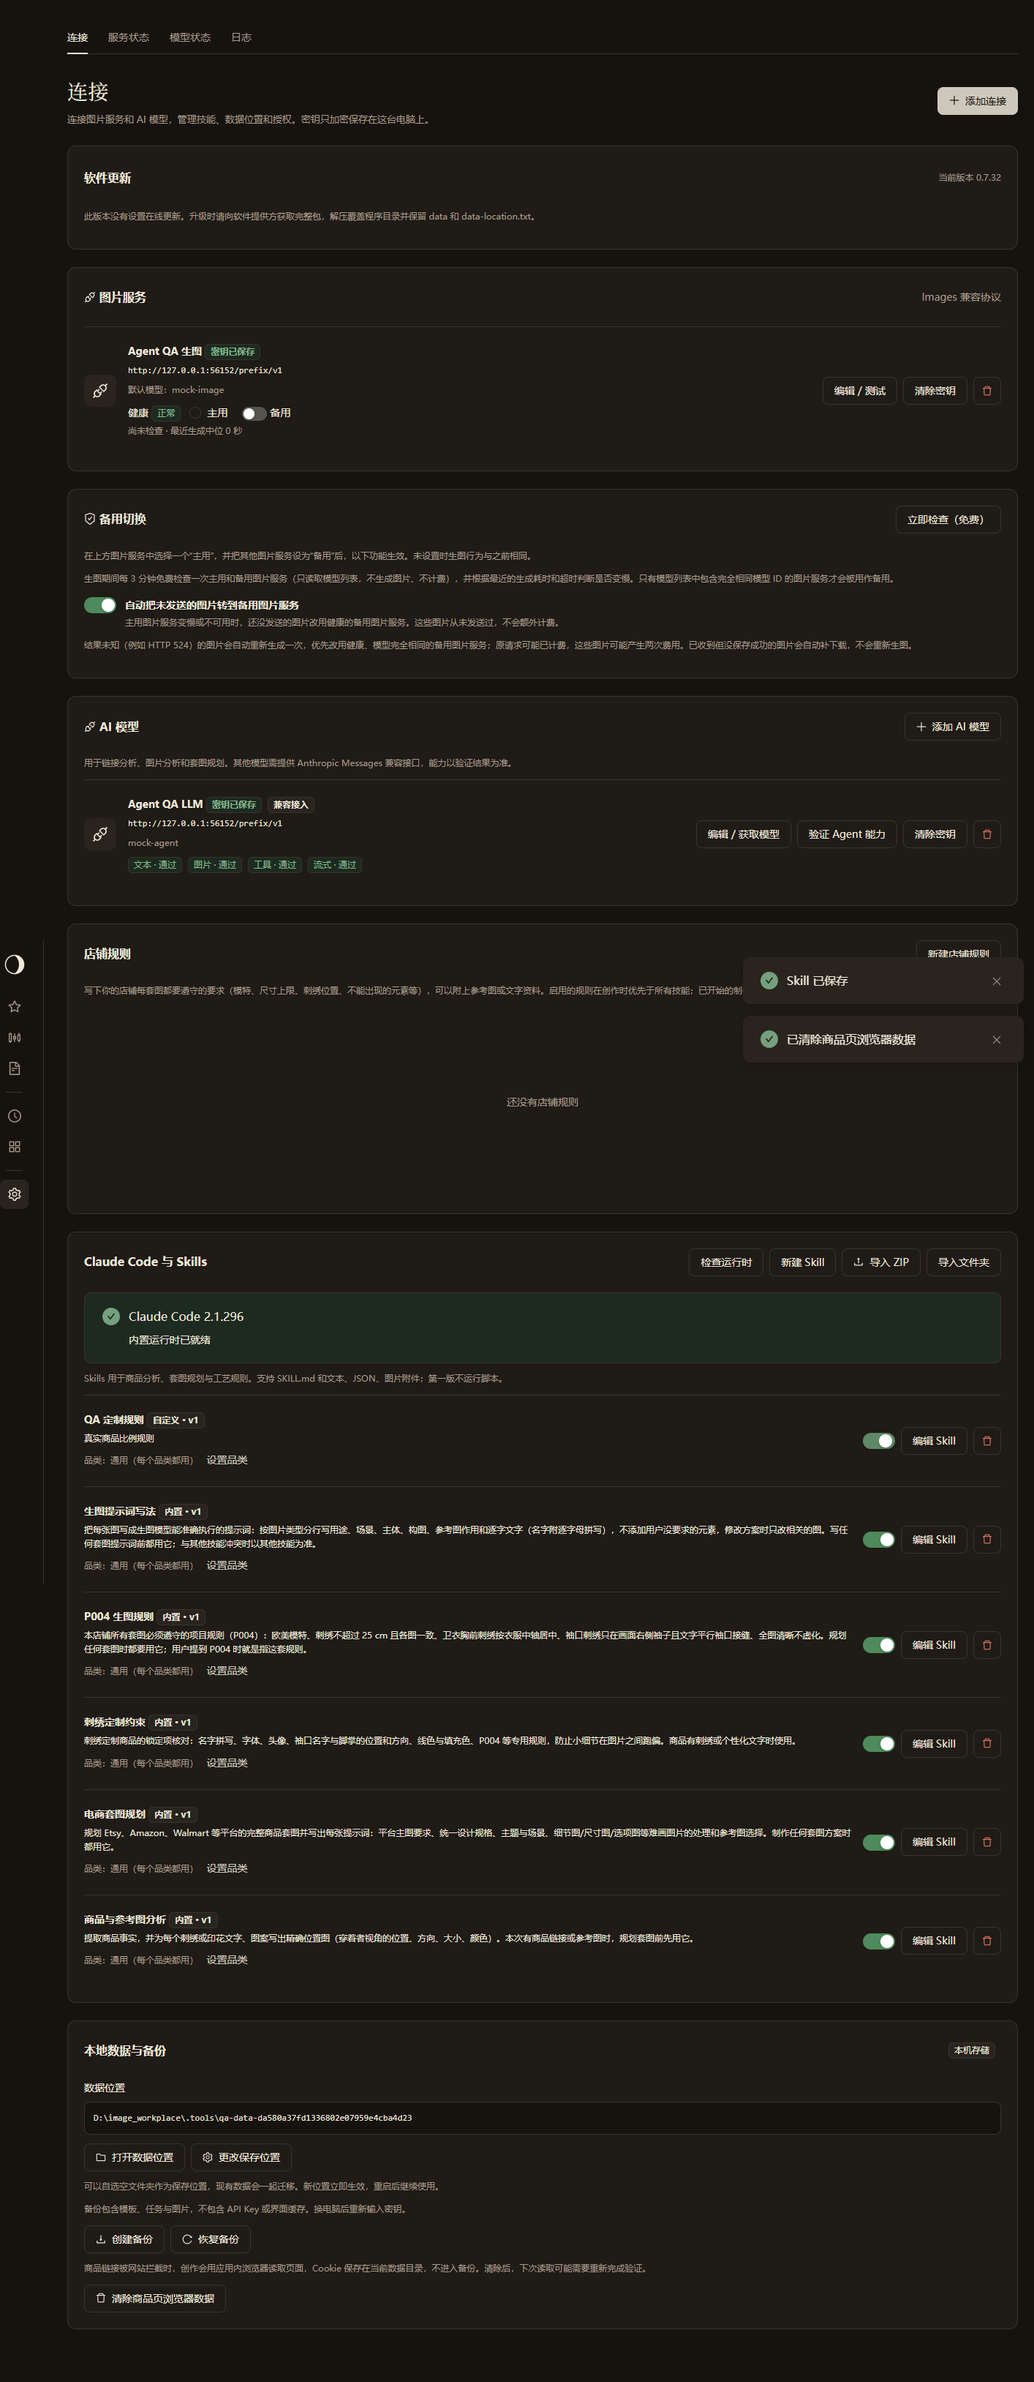
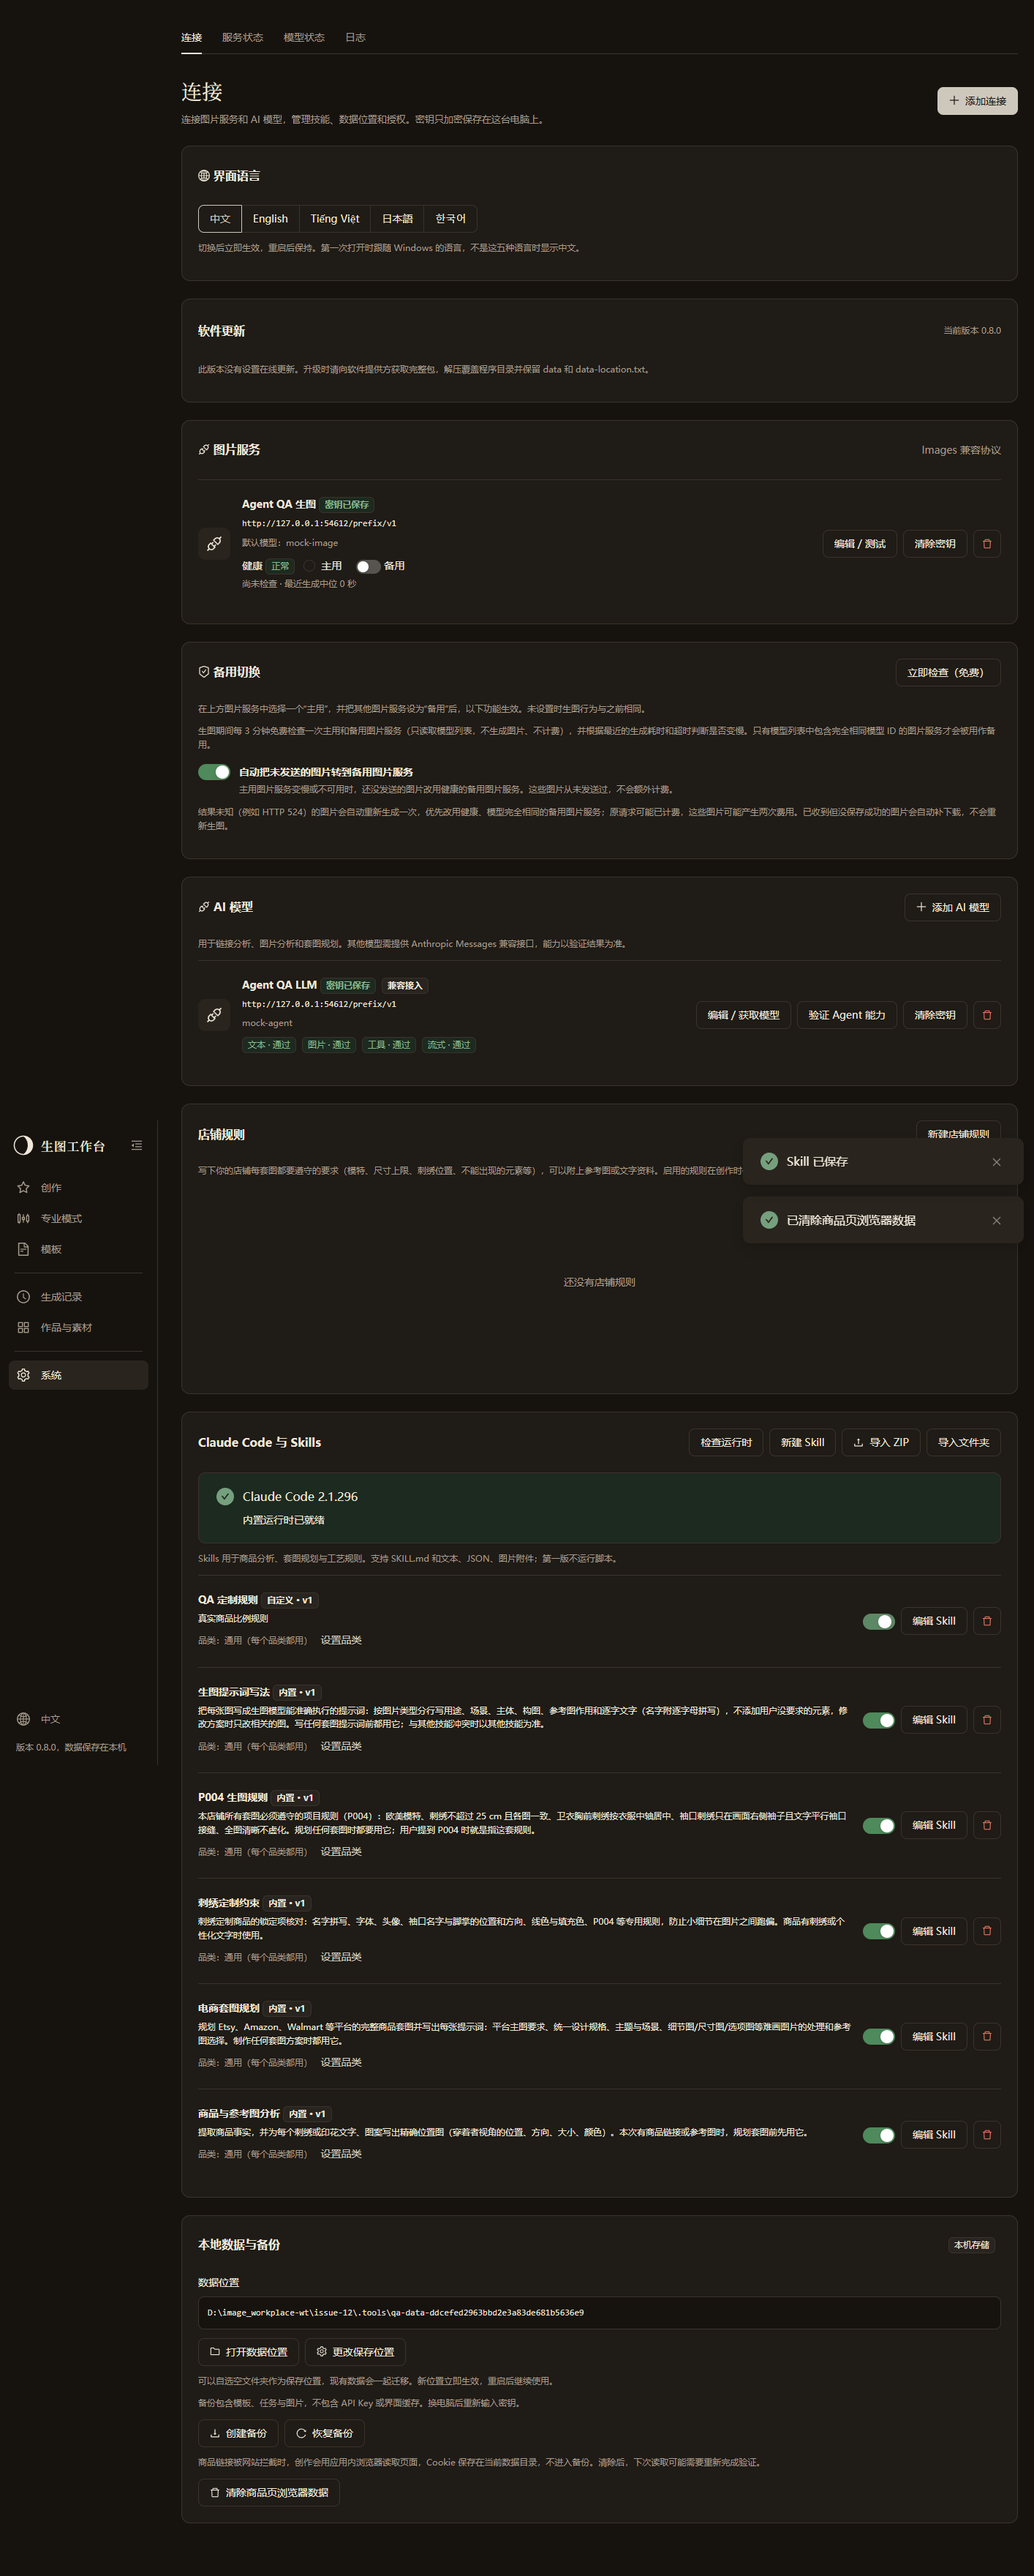
Release 0.8.0: five interface languages (#12)
- Version 0.8.0 (build.ps1, wails.json, package.json, App.tsx, AppVersion); CHANGELOG, README and the five manuals
- Placeholder text and in-sentence links pass axe on the dark theme
- Settings language spec: anchor row filters (translated skill texts mention images and rules)
- Desktop suite 62 passed; screenshots and ui-test-results.json from that run

diff --git a/frontend/tests/every-page-language.spec.ts b/frontend/tests/every-page-language.spec.ts
@@ -3,7 +3,8 @@
 // system tabs) shows no leftover Chinese outside data, has no horizontal
 // scroll in a narrow window, and passes the axe check. Data here is ASCII;
 // the only Chinese data is stored log text (ADR 0004: written in the language
-// of its moment) and each language's own name in the language switch.
+// of its moment) and each language's own name in the language switch. Checks
+// are soft so one run lists every page's problems.
 import {
   test,
   expect,
@@ -106,15 +107,19 @@ async function expectNoChinese(lang: Lang, where: string) {
     (v, w) => v.split(w).join(""),
     await screenText(),
   );
-  expect(
-    leftovers(lang).filter((p) => text.includes(p)),
-    `${lang} ${where}: Chinese interface text`,
-  ).toEqual([]);
+  expect
+    .soft(
+      leftovers(lang).filter((p) => text.includes(p)),
+      `${lang} ${where}: Chinese interface text`,
+    )
+    .toEqual([]);
   if (lang !== "ja")
-    expect(
-      text.split("\n").filter((l) => han.test(l)),
-      `${lang} ${where}: Han characters`,
-    ).toEqual([]);
+    expect
+      .soft(
+        text.split("\n").filter((l) => han.test(l)),
+        `${lang} ${where}: Han characters`,
+      )
+      .toEqual([]);
 }
 async function a11y(where: string) {
   await page.mouse.move(0, 0);
@@ -126,25 +131,29 @@ async function a11y(where: string) {
   const scan = await new AxeBuilder({ page })
     .withTags(["wcag2a", "wcag2aa", "wcag21aa"])
     .analyze();
-  expect(
-    scan.violations.map((v) => ({
-      id: v.id,
-      nodes: v.nodes.map((n) => n.target.join(" ")),
-    })),
-    where,
-  ).toEqual([]);
+  expect
+    .soft(
+      scan.violations.map((v) => ({
+        id: v.id,
+        nodes: v.nodes.map((n) => `${n.target.join(" ")}: ${n.failureSummary}`),
+      })),
+      where,
+    )
+    .toEqual([]);
 }
 async function noSideScroll(where: string) {
   await page.setViewportSize({ width: 800, height: 900 });
   await page.waitForTimeout(200);
-  expect(
-    await page.evaluate(
-      () =>
-        document.documentElement.scrollWidth <=
-        document.documentElement.clientWidth,
-    ),
-    `${where} at 800px`,
-  ).toBe(true);
+  expect
+    .soft(
+      await page.evaluate(
+        () =>
+          document.documentElement.scrollWidth <=
+          document.documentElement.clientWidth,
+      ),
+      `${where} at 800px`,
+    )
+    .toBe(true);
   await page.setViewportSize({ width: 1414, height: 1000 });
 }
 

diff --git a/frontend/tests/settings-language.spec.ts b/frontend/tests/settings-language.spec.ts
@@ -221,10 +221,12 @@ for (const lang of ["en", "vi", "ja", "ko"] as const) {
       page.getByRole("heading", { name: tr(lang, "settings.title"), level: 1 }),
     ).toBeVisible();
     await expect(
-      page.locator(".connection-row").filter({ hasText: "Image A" }),
+      // Anchored: translated skill descriptions also mention images and rules.
+      page.locator(".connection-row").filter({ hasText: /^Image A/ }),
     ).toBeVisible();
     await expect(
-      page.locator(".connection-row").filter({ hasText: "Rule" }),
+      // Anchored: translated skill descriptions also mention images and rules.
+      page.locator(".connection-row").filter({ hasText: /^Rule/ }),
     ).toBeVisible();
     await expect(page.locator("#update")).toContainText(
       tr(lang, "updates.title"),

diff --git a/frontend/src/tokens.ts b/frontend/src/tokens.ts
@@ -107,6 +107,9 @@ export const antdTheme: ThemeConfig = {
     colorTextDescription: colors.muted,
     colorTextSecondary: colors.muted,
     colorTextDisabled: colors.text,
+    // antd's default placeholder (a quarter of the text colour) is too faint
+    // on the dark surface.
+    colorTextPlaceholder: colors.muted,
     colorBgBase: colors.background,
     colorBgLayout: colors.background,
     colorBgContainer: colors.surface,

diff --git a/frontend/src/styles/shell.css b/frontend/src/styles/shell.css
@@ -47,6 +47,12 @@ small,
 .hint {
   color: var(--muted);
 }
+/* A link inside a sentence is underlined: its colour alone is too close to
+   the muted text around it (WCAG link-in-text-block). */
+.hint a,
+small a {
+  text-decoration: underline;
+}
 .mono,
 code {
   font-family: Consolas, monospace;

diff --git a/docs/CHANGELOG.md b/docs/CHANGELOG.md
@@ -15,11 +15,12 @@
 - **内置技能和托管线路的名称**：设置里内置技能的名称和简介按界面语言显示（技能内容本身不变；改过名称或简介的照你改的显示）。托管版授权文件里的“图片线路 N / LLM 线路 N”按界面语言显示为 Image line N 等；提供方另起的名称原样显示。
 - **更新说明中英两份**：一键更新时，中文界面显示中文更新说明，其他语言显示英文更新说明；更新清单缺英文时显示中文。旧版本读新的更新清单照常显示中文说明。管理工具发布大众版时写好中英两份（见管理工具 1.10.0）。
 - **五种语言的使用说明**：完整包的程序目录里有《使用说明》的五种语言版本（使用说明.txt、User Guide.txt、Hướng dẫn sử dụng.txt、使い方ガイド.txt、사용 설명서.txt），术语与界面一致。**注意：通过一键更新升级到 0.8.0 只带中文的《使用说明》**——0.8.0 之前的软件会拒绝含有其他文件的更新包，所以其他四种语言的版本只在完整包里，需要时请向软件提供方要完整包。
+- **两处无障碍修正**：下拉框和输入框里的灰色占位文字原来太淡（对比度 2.3:1），现在用与说明文字相同的颜色；说明文字里的链接加了下划线，不再只靠颜色区分。
 - 电商版没有改动。
 
 ### 验证
 - Go 测试全部通过。新增：界面代码（文字表以外）出现写死的中文时测试失败，只放行必须保留的几处（各语言自己的名称、字体名、0.8.0 之前保存的中文文字的识别）；后台同样的检查（#8）继续通过；内置技能的中文名称和简介与界面文字表一致；四种译本的《使用说明》逐行使用术语对照表的译法。
-- 桌面测试全部通过。新增：五种语言逐页检查（创作、专业模式、模板、生成记录、作品与素材、系统下的连接、服务状态、模型状态、日志）：没有残留中文、窄窗口没有横向滚动、无障碍检查通过。
+- 桌面测试 62 项全部通过（另有两项按惯例在工作区外单独运行：资源管理器打开数据位置；保存位置的迁移，需在真实目录而不是目录链接里运行，这一版还没跑）。新增：五种语言逐页检查（创作、专业模式、模板、生成记录、作品与素材、系统下的连接、服务状态、模型状态、日志）：没有残留中文、800 像素宽的窗口没有横向滚动、无障碍检查通过。原来各语言测试里跳过的后台提示（错误说明、授权状态、通知、制作过程记录）现在一并检查，只有已保存的日志条目按 ADR 0004 不查。
 
 ## 0.7.39 · 侧栏常驻展开，可手动收起
 
